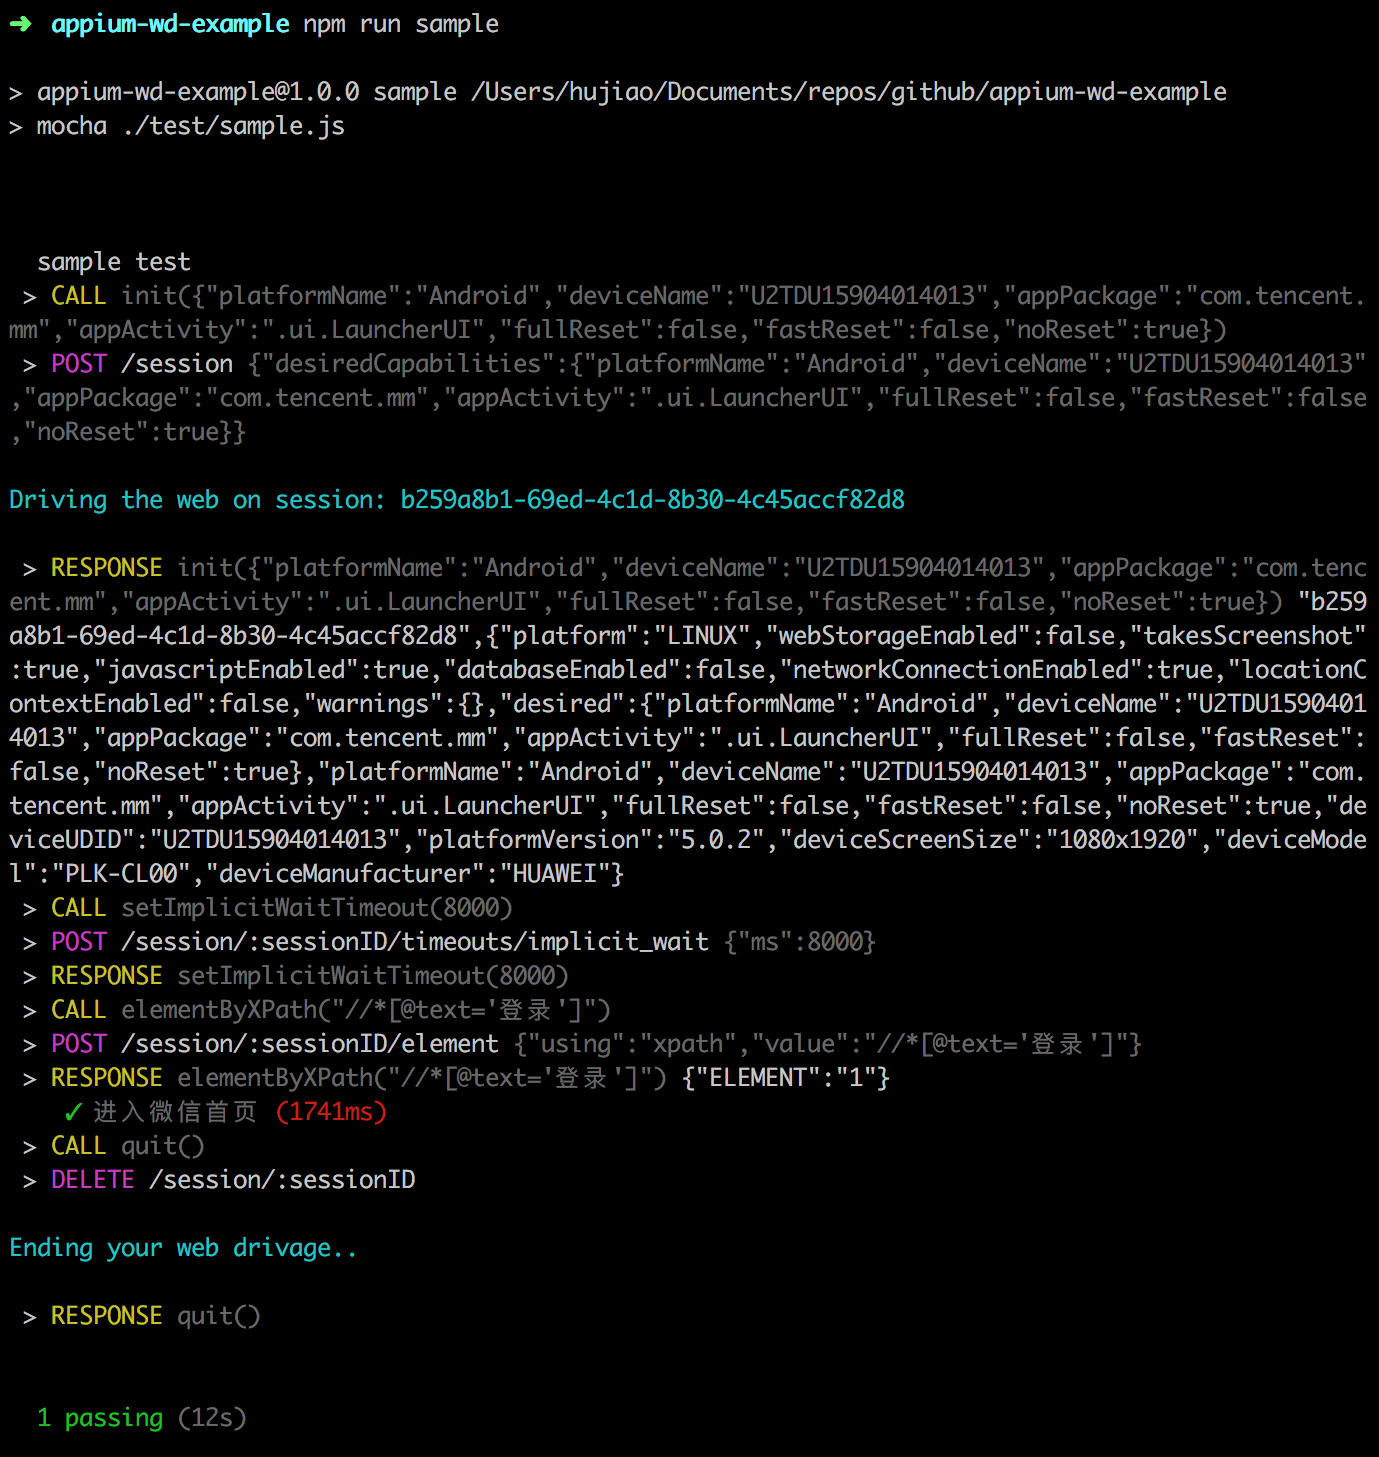
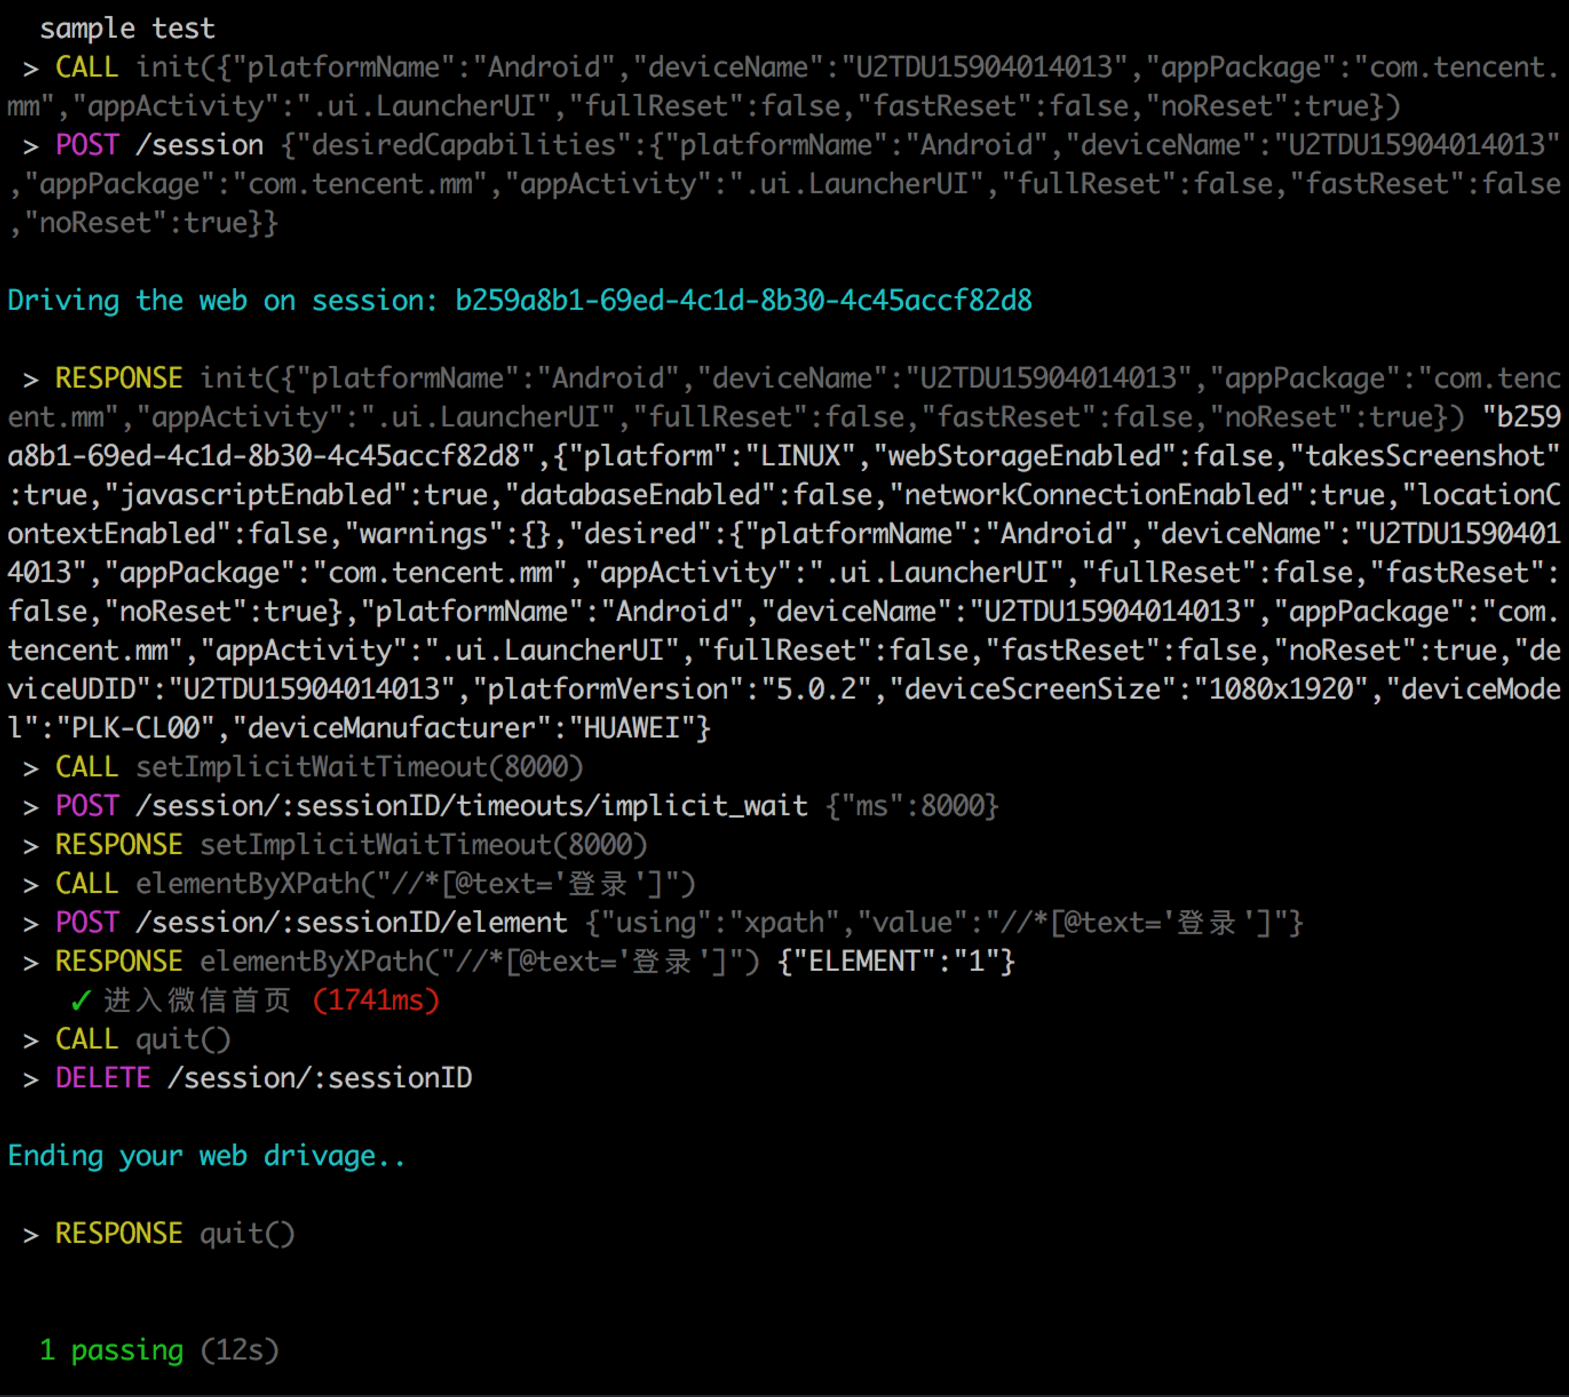
add weapp test result

Changed region(s): [[0.0, 0.0, 0.9978, 0.9234], [0.0312, 0.9542, 0.1871, 0.985]]

diff --git a/docs/appium-weapp.md b/docs/appium-weapp.md
@@ -57,7 +57,7 @@ const serverConfig = {
     port: 4723
 };
 
-describe("sample test", function () {
+describe("weapp test", function () {
     this.timeout(300000);
 
     let driver;
@@ -143,7 +143,9 @@ $ npm run weapp # 运行测试用例
 
 执行结果如下：
 
-
+<p align="left">
+    <img width="600px" src="../screenshot/appium-weapp.png">
+</p>
 
 以上就是使用 Appium 进行微信小程序自动化测试~
 
